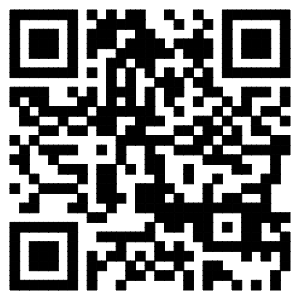
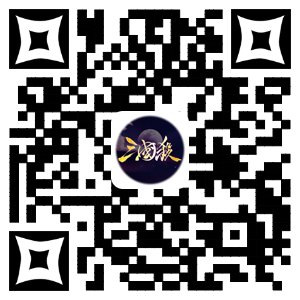
二维码地址更新

diff --git a/README.md b/README.md
@@ -2,7 +2,7 @@
 ## 三国杀FAQ(第一版名：三国杀宝典)
 
 #### 三国杀游戏查询webApp
-#### [在线演示地址](http://120.24.68.145:8080/threeKingdoms/)
+#### [在线演示地址](http://wteamxq.com/threeKingdoms/)
 
 本项目是 bootstrap3.2.0 更新版（v2.0），在github上 实时更新（学习练手项目）
 
